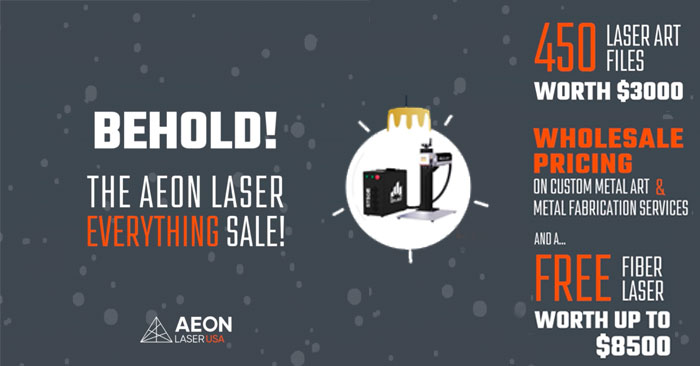
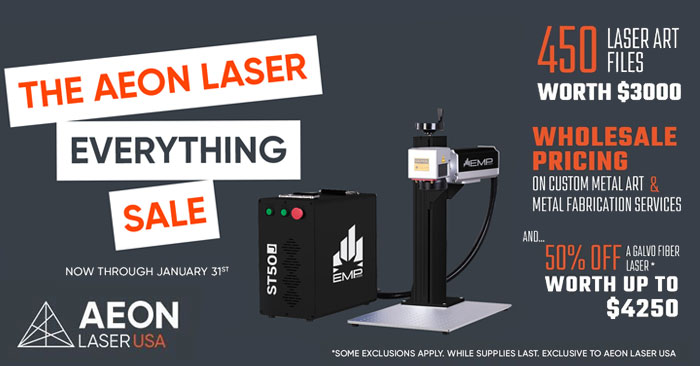
updated promos, contest

diff --git a/public/contest.html b/public/contest.html
@@ -165,6 +165,7 @@ height="0" width="0" style="display:none;visibility:hidden"></iframe></noscript>
           <ul class="dropdown-menu">
             <li><a href="/faq.html">FAQ</a></li>
             <li><a href="/financing.html">Financing</a></li>
+            <li><a href="/promos.html">Promotions</a></li>
             <li><a href="/catalog.html">Catalog</a></li>
           </ul>
         </li>
@@ -190,12 +191,12 @@ height="0" width="0" style="display:none;visibility:hidden"></iframe></noscript>
 
   <!--START: MAIN-->
   <div class="title">
-    <h1>Win $15K in AEON bucks! 😻</h1>
+    <h1>Win $15K in AEON Bucks! 😻</h1>
   </div>
   <div class="container">
     <div class="row">
-      <div class="col-xs-12 centered pb-50">
-        <p class="lead">AEON Laser USA is giving one lucky winner $15,000 in AEON Bucks! Contest is open to existing Aeon Laser USA customers who own a laser. Contest runs from Dec 2 2022 - Jan 2 2023. Complete more entries to unlock bonuses. 🎁</p>
+      <div class="col-xs-12 col-sm-10 col-sm-offset-1 pb-50">
+        <p class="lead text-center">This giveaway has ended.<br/> The Winner will be announced on Jan 7th 2023.<br/> For those who participated and claimed bonuses 🎁, we will be in touch very soon!<br/> Thank you to everyone for sharing so many inspiring entries!<br/> Follow us or join our mailing list to learn about future giveaways. </p>
         <p class="centered"><span data-toggle="modal" data-target="#modalcontest" class="btn btn-brand btn-lg fixed-bl">&#128248; Tips</span></p>
       </div>
     </div>
@@ -213,7 +214,7 @@ height="0" width="0" style="display:none;visibility:hidden"></iframe></noscript>
         <div class="elfsight-app-285d1eb9-ae2c-41a2-a2bb-d3609caf4b67"></div>
       </div>
     </div>
-    <div class="row pb-50">
+    <!-- <div class="row pb-50">
       <div class="col-xs-12 col-md-8 col-md-offset-2 py-2">
         <h3 class="centered brand-color">Need help getting started?</h3>
         <div class="video">
@@ -222,7 +223,7 @@ height="0" width="0" style="display:none;visibility:hidden"></iframe></noscript>
           </div>
         </div>
       </div>
-    </div>
+    </div> -->
 
   </div><!--end .container-->
 

diff --git a/public/promos.html b/public/promos.html
@@ -180,6 +180,7 @@ height="0" width="0" style="display:none;visibility:hidden"></iframe></noscript>
           <ul class="dropdown-menu">
             <li><a href="/faq.html">FAQ</a></li>
             <li><a href="/financing.html">Financing</a></li>
+            <li><a href="/promos.html">Promotions</a></li>
             <li><a href="/catalog.html">Catalog</a></li>
           </ul>
         </li>
@@ -369,7 +370,7 @@ height="0" width="0" style="display:none;visibility:hidden"></iframe></noscript>
                   <p>We're proud to be working with Alex Sellite and the team at <a href="https://lasereverything.net/" target="_blank" rel="noopener">Laser Everything</a> so that we can offer you 1 free month of "Master" access to their renowned <a href="https://masters.lasereverything.net/" target="_blank" rel="noopener">Laser Master Academy</a>.</p>
                   <p>Alex has been in the laser business for over 10 years and is passionate about helping people succeed with all types of lasers including Fiber and CO2.</p>
                   <p>Alex and team are on a mission to help 10k people master their machines and generate full time income with lasers!</p>
-                  <p>So what are you waiting for? Get your FREE fiber laser, learn from the master, and start the new year off right!</p>
+                  <p>So what are you waiting for? Get your fiber laser, learn from the master, and start the new year off right!</p>
                 </div>
               </div>
             </div>

diff --git a/public/404.html b/public/404.html
@@ -124,6 +124,7 @@ height="0" width="0" style="display:none;visibility:hidden"></iframe></noscript>
           <ul class="dropdown-menu">
             <li><a href="/faq.html">FAQ</a></li>
             <li><a href="/financing.html">Financing</a></li>
+            <li><a href="/promos.html">Promotions</a></li>
             <li><a href="/catalog.html">Catalog</a></li>
           </ul>
         </li>

diff --git a/public/about.html b/public/about.html
@@ -171,6 +171,7 @@ height="0" width="0" style="display:none;visibility:hidden"></iframe></noscript>
           <ul class="dropdown-menu">
             <li><a href="/faq.html">FAQ</a></li>
             <li><a href="/financing.html">Financing</a></li>
+            <li><a href="/promos.html">Promotions</a></li>
             <li><a href="/catalog.html">Catalog</a></li>
           </ul>
         </li>

diff --git a/public/aeon-experience.html b/public/aeon-experience.html
@@ -191,6 +191,7 @@ height="0" width="0" style="display:none;visibility:hidden"></iframe></noscript>
           <ul class="dropdown-menu">
             <li><a href="/faq.html">FAQ</a></li>
             <li><a href="/financing.html">Financing</a></li>
+            <li><a href="/promos.html">Promotions</a></li>
             <li><a href="/catalog.html">Catalog</a></li>
           </ul>
         </li>

diff --git a/public/catalog.html b/public/catalog.html
@@ -169,6 +169,7 @@ height="0" width="0" style="display:none;visibility:hidden"></iframe></noscript>
           <ul class="dropdown-menu">
             <li><a href="/faq.html">FAQ</a></li>
             <li><a href="/financing.html">Financing</a></li>
+            <li><a href="/promos.html">Promotions</a></li>
             <li><a href="/catalog.html">Catalog</a></li>
           </ul>
         </li>

diff --git a/public/community.html b/public/community.html
@@ -168,6 +168,7 @@ height="0" width="0" style="display:none;visibility:hidden"></iframe></noscript>
           <ul class="dropdown-menu">
             <li><a href="/faq.html">FAQ</a></li>
             <li><a href="/financing.html">Financing</a></li>
+            <li><a href="/promos.html">Promotions</a></li>
             <li><a href="/catalog.html">Catalog</a></li>
           </ul>
         </li>

diff --git a/public/contact.html b/public/contact.html
@@ -237,6 +237,7 @@ height="0" width="0" style="display:none;visibility:hidden"></iframe></noscript>
           <ul class="dropdown-menu">
             <li><a href="/faq.html">FAQ</a></li>
             <li><a href="/financing.html">Financing</a></li>
+            <li><a href="/promos.html">Promotions</a></li>
             <li><a href="/catalog.html">Catalog</a></li>
           </ul>
         </li>

diff --git a/public/cookie-policy.html b/public/cookie-policy.html
@@ -176,6 +176,7 @@ height="0" width="0" style="display:none;visibility:hidden"></iframe></noscript>
           <ul class="dropdown-menu">
             <li><a href="/faq.html">FAQ</a></li>
             <li><a href="/financing.html">Financing</a></li>
+            <li><a href="/promos.html">Promotions</a></li>
             <li><a href="/catalog.html">Catalog</a></li>
           </ul>
         </li>

diff --git a/public/customer-spotlight.html b/public/customer-spotlight.html
@@ -182,6 +182,7 @@ height="0" width="0" style="display:none;visibility:hidden"></iframe></noscript>
           <ul class="dropdown-menu">
             <li><a href="/faq.html">FAQ</a></li>
             <li><a href="/financing.html">Financing</a></li>
+            <li><a href="/promos.html">Promotions</a></li>
             <li><a href="/catalog.html">Catalog</a></li>
           </ul>
         </li>

diff --git a/public/customer-spotlight/beyond-laser-creations.html b/public/customer-spotlight/beyond-laser-creations.html
@@ -169,6 +169,7 @@ height="0" width="0" style="display:none;visibility:hidden"></iframe></noscript>
           <ul class="dropdown-menu">
             <li><a href="/faq.html">FAQ</a></li>
             <li><a href="/financing.html">Financing</a></li>
+            <li><a href="/promos.html">Promotions</a></li>
             <li><a href="/catalog.html">Catalog</a></li>
           </ul>
         </li>

diff --git a/public/customer-spotlight/designs-by-hope-yoder.html b/public/customer-spotlight/designs-by-hope-yoder.html
@@ -169,6 +169,7 @@ height="0" width="0" style="display:none;visibility:hidden"></iframe></noscript>
           <ul class="dropdown-menu">
             <li><a href="/faq.html">FAQ</a></li>
             <li><a href="/financing.html">Financing</a></li>
+            <li><a href="/promos.html">Promotions</a></li>
             <li><a href="/catalog.html">Catalog</a></li>
           </ul>
         </li>
